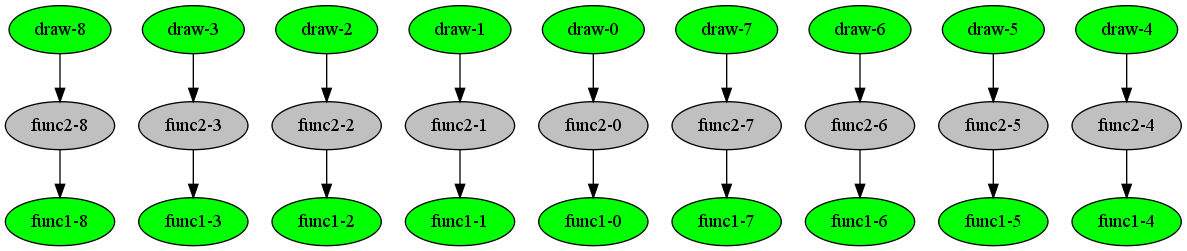
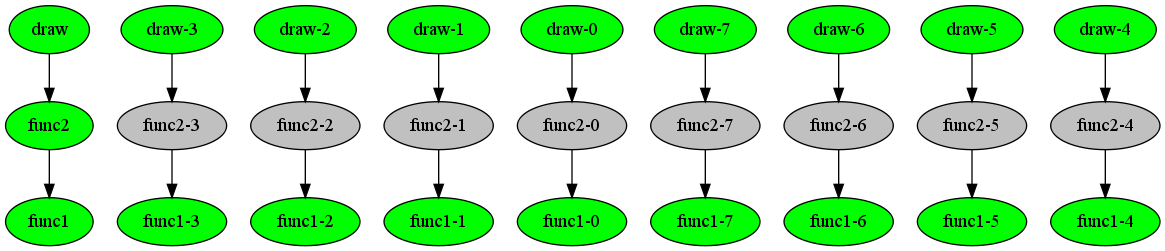
fixed bug in graph; updated documentation

diff --git a/docs/commands_list.html b/docs/commands_list.html
@@ -22,6 +22,7 @@
 <tr><th colspan='3'>Cluster commands</th></tr/ 
 <tr><td colspan='3'> These assume that you have a cluster configuration file as explained in the documentation. </td></tr> 
 <tr> <td class='command-name'><tt>clustmake</tt></td> <td class='command-params'><tt><tt></td> <td class='command-desc'>Cluster equivalent of "make".</td> </tr> 
+<tr> <td class='command-name'><tt>clustmore</tt></td> <td class='command-params'><tt><tt></td> <td class='command-desc'>Cluster equivalent of "more".</td> </tr> 
 <tr><th colspan='3'>Import / export</th></tr/ 
 <tr><td colspan='3'> Ways to get data out of compmake. </td></tr> 
 <tr> <td class='command-name'><tt>dump</tt></td> <td class='command-params'><tt><tt></td> <td class='command-desc'>Dumps the content of jobs as pickle files.</td> </tr> 

diff --git a/docs/download.html b/docs/download.html
@@ -1,0 +1,17 @@
+
+<div style="float:right" class="download">
+  <a href="http://github.com/AndreaCensi/compmake/zipball/master">
+    <img border="0" width="90" src="http://github.com/images/modules/download/zip.png"></a>
+  <a href="http://github.com/AndreaCensi/compmake/tarball/master">
+    <img border="0" width="90" src="http://github.com/images/modules/download/tar.png"></a>
+</div>
+
+<p>
+  You can download this project in either
+  <a href="http://github.com/AndreaCensi/compmake/zipball/master">zip</a> or
+  <a href="http://github.com/AndreaCensi/compmake/tarball/master">tar</a> formats.
+</p>
+<p>You can also clone the project with <a href="http://git-scm.com">Git</a>
+  by running:
+  <pre>$ git clone git://github.com/AndreaCensi/compmake</pre>
+</p>

diff --git a/docs/config_list.html b/docs/config_list.html
@@ -6,6 +6,8 @@
 <tr><th colspan='3'>Job execution</th></tr/ 
 <tr> <td class='config-name'><tt>echo_stdout</tt></td> <td class='config-value'><tt>True<tt></td> <td class='config-desc'>If true, the job output to stdout is shown.</td> </tr> 
 <tr> <td class='config-name'><tt>echo_stderr</tt></td> <td class='config-value'><tt>True<tt></td> <td class='config-desc'>If true, the job output to stderr is shown.</td> </tr> 
+<tr> <td class='config-name'><tt>save_progress</tt></td> <td class='config-value'><tt>True<tt></td> <td class='config-desc'>Whether to save intermediate results for jobs that use the yield() paradigm.
+Automatically disabled for cluster slaves to save bandwidth.</td> </tr> 
 </table>
 
     <style type="text/css">

diff --git a/compmake/plugins/graph.py b/compmake/plugins/graph.py
@@ -6,6 +6,7 @@ from compmake.jobs.storage import get_job_cache, get_computation
 from compmake.structures import UserError, Cache
 from compmake.ui.helpers import ui_section, VISUALIZATION, ui_command
 from compmake.utils import  info
+from compmake.jobs.queries import direct_children
 
 ui_section(VISUALIZATION)
 
@@ -60,10 +61,10 @@ def graph(job_list, filename='compmake', compact=0,
         graph.styleApply(job_id, job2node[job_id])
     
     for job_id in job_list:
-        c = get_computation(job_id)
-        children_id = [x.job_id for x in c.depends]
-        for c in children_id:
-            graph.newLink(job2node[job_id], job2node[c])
+        #c = get_computation(job_id)
+        #children_id = [x.job_id for x in c.depends]
+        for child in direct_children(job_id):
+            graph.newLink(job2node[job_id], job2node[child])
     
     # TODO: add check?
     with open(filename, 'w') as f:

diff --git a/master.py b/master.py
@@ -12,6 +12,7 @@ from compmake.ui.ui import set_slave_mode
 from compmake.ui.console import interactive_console
 from compmake import  version, stats
 from compmake.config.config_optparse import config_populate_optparser
+from compmake.config import compmake_config
 
 
 def main():             
@@ -100,13 +101,10 @@ def main():
         module_name = args.pop(0)
         set_namespace(module_name)
         set_slave_mode(True)
-        
-        #if not args:
-        #    user_error('In slave mode, I expect some command.')
-        #    sys.exit(-7)
-            
+             
     if args:
         try:
+            compmake_config.interactive = False
             retcode = interpret_commands(args)
             # print "Exiting with retcode %s" % retcode
             sys.exit(retcode)

diff --git a/docs/conf.py b/docs/conf.py
@@ -118,7 +118,7 @@ html_short_title = ""
 
 # The name of an image file (relative to this directory) to place at the top
 # of the sidebar.
-html_logo = "workers.jpg"
+#html_logo = "workers.jpg"
 
 # The name of an image file (within the static path) to use as favicon of the
 # docs.  This file should be a Windows icon file (.ico) being 16x16 or 32x32

diff --git a/docs/index.rst b/docs/index.rst
@@ -4,18 +4,17 @@ Compmake
 .. raw:: html
    :file: fork.html
 
-``compmake`` is ``make`` for batch python processes.
-
 .. image:: workers.jpg
    :align: right
 
-It is a non-obtrusive module that allows to add:
+``compmake`` is ``make`` for batch python processes. 
+It is a non-obtrusive module that provides:
 
-* ``make``--like facilities to your computations (``make``, ``clean``, etc.)
-
-* Automatic **caching** of the results on disk.
-
-* **Parallelization** using the ``multiprocessing`` module.
+* ``make``--like facilities to your computations (``make``, ``clean``, etc.),
+  including caching of temporary results. That is you can do a CTRL+C, play your
+  videogame, and then restart compmake without losing data.
+* **Single-host parallelization** using the ``multiprocessing`` module.
+* **Multiple-host parallelization** using ssh-spawned slaves.
 
 
 Interested? Please read along:
@@ -34,30 +33,32 @@ Interested? Please read along:
    config.rst
 
 
-Installation
-------------
+Quick installation
+------------------
 
 The quick install is::
 
 $ easy_install compmake
 
-Altough there are also dependencies to install for advanced features. 
-See install.rst__ for more information.
+This will allow you to run ``compmake`` on a single host.
+However, there are also separate dependencies to install for some
+advanced features. See install.rst__ for more information.
 
 
-Repository access
-------------------
+Source download
+---------------
 
-compmake is hosted on github:
+.. raw:: html
+   :file: download.html
 
-$ git clone ...
 
 
-Author(s)
+Feedback
 ---------
 
-Compmake is currently developed by Andrea Censi. 
-Contributors are most welcome.
+Compmake is currently developed by Andrea Censi. Contributors are most welcome.
 
+Please use the issue_tracker_on_github_ for bugs and requested features.
 
+:: _issue_tracker_on_github: https://github.com/AndreaCensi/compmake/issues
 
